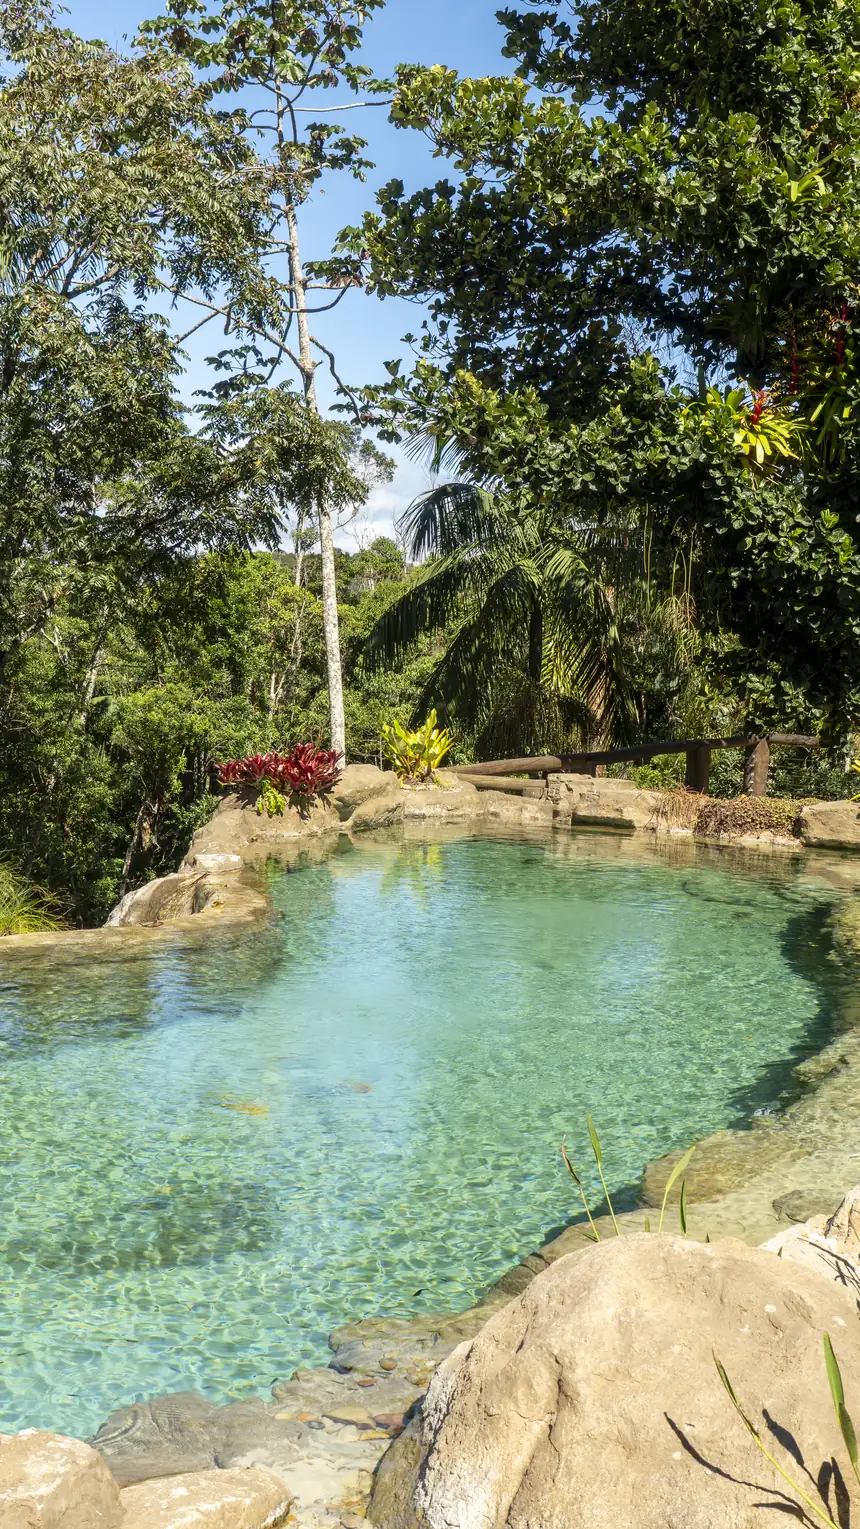
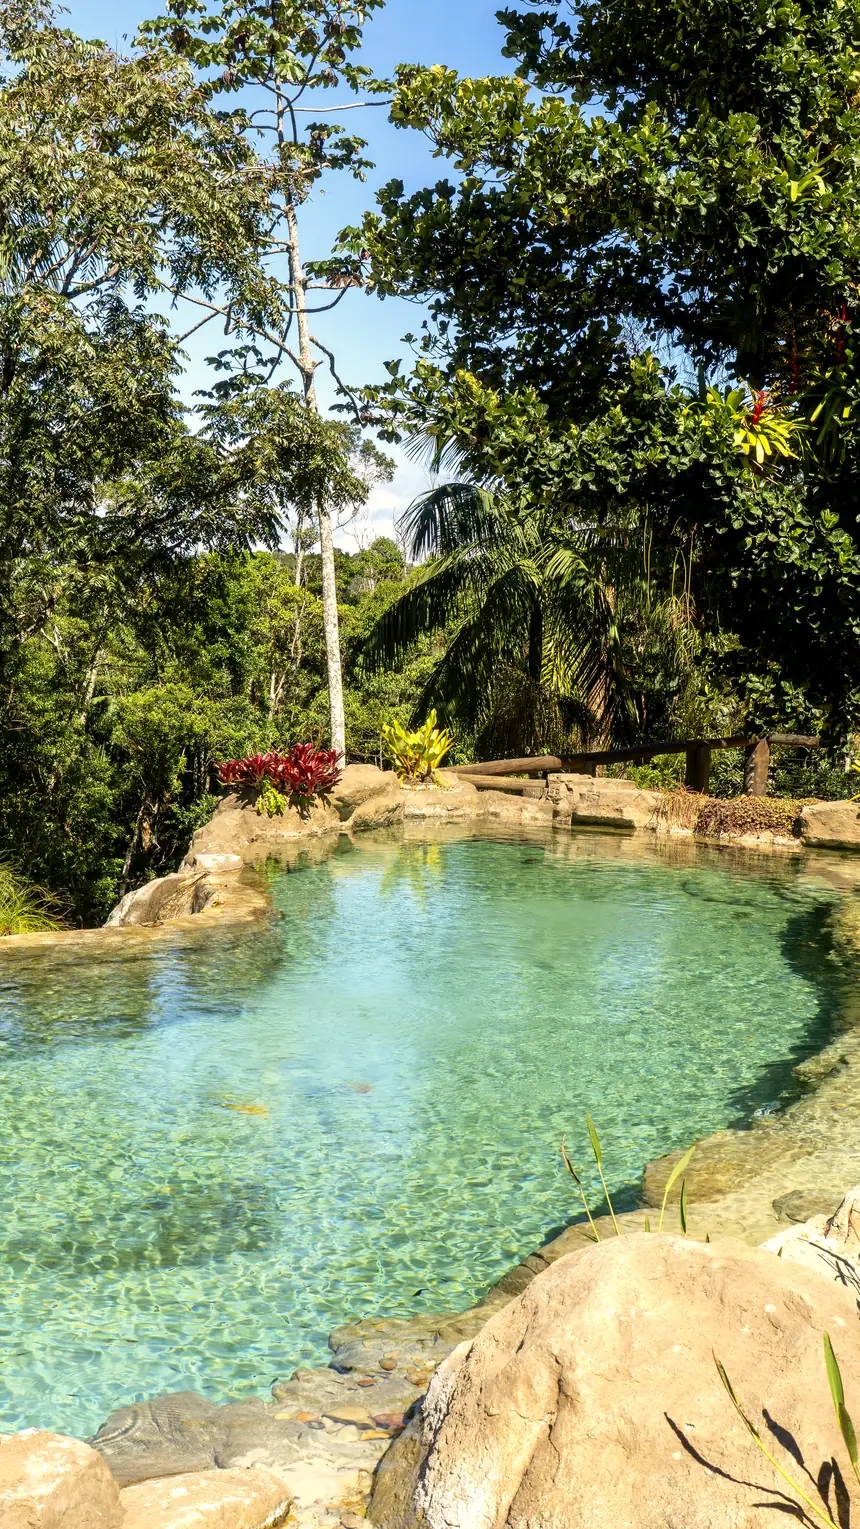
fix(hero): pedra em primeiro plano + tratamento da foto
Correção do dono: 'estamos mostrando mais água e folhas do que a pedra'.

- Recorte novo (16:9 y=88%): a piscina fica EMOLDURADA por pedra Western — a
  borda de pedra à esquerda e o matacão grande embaixo à direita, com o verde
  só como respiro. Antes (y=72%) a água dominava e a pedra era canto de quadro
- Scrim do mobile INVERTIDO: estava ancorado embaixo, escondendo justamente o
  matacão (que vive na base) e revelando as copas de árvore do topo. Agora é
  escuro em cima (onde o texto vive) e LIMPO embaixo (onde a pedra está)
- Herói mobile 700 -> 760px para sobrar base limpa de foto sob o texto
- Tratamento da foto (fotográfico, sem IA): contraste 1.12, saturação 1.10
  (turquesa), calor sutil no canal R / -B (paleta Western é quente), nitidez
  1.30. Desktop caiu para 233KB, mobile 353KB

tsc + vite build limpos.

diff --git a/src/pages/Index.tsx b/src/pages/Index.tsx
@@ -96,7 +96,7 @@ export default function Index() {
           (9:16) da mesma obra; no desktop, uma faixa. Antes era a mesma foto
           deitada espremida num slot em pé — o navegador ampliava 1,3x e jogava
           fora 68% da largura. */}
-      <section className="relative w-full overflow-hidden bg-western-green-deep flex items-end md:items-center min-h-[700px] md:min-h-[720px]">
+      <section className="relative w-full overflow-hidden bg-western-green-deep flex items-start md:items-center min-h-[760px] md:min-h-[720px]">
         <picture>
           <source media="(min-width: 768px)" srcSet={heroHome} width={1600} height={900} />
           <img
@@ -113,15 +113,16 @@ export default function Index() {
             className="absolute inset-0 w-full h-full object-cover object-center md:object-bottom"
           />
         </picture>
-        {/* Scrim mobile ANCORADO EMBAIXO: a foto respira em cima (é o assunto),
-            o texto vive no escuro do rodapé. Antes era um cobertor de 70-90% em
-            toda a altura — por isso a imagem virava só um fundo. */}
+        {/* Scrim mobile ANCORADO NO TOPO: o texto vive no escuro de cima (onde a
+            foto só tem copa de árvore) e a base fica LIMPA — é lá que está o
+            matacão, que é o produto. Antes era um cobertor de 70-90% na altura
+            toda: a foto virava fundo. */}
         <div
           className="absolute inset-0 pointer-events-none md:hidden"
           aria-hidden
           style={{
             background:
-              "linear-gradient(180deg, hsl(var(--western-green-deep) / 0) 0%, hsl(var(--western-green-deep) / 0.30) 34%, hsl(var(--western-green-deep) / 0.86) 68%, hsl(var(--western-green-deep) / 0.97) 100%)",
+              "linear-gradient(180deg, hsl(var(--western-green-deep) / 0.95) 0%, hsl(var(--western-green-deep) / 0.92) 45%, hsl(var(--western-green-deep) / 0.55) 70%, hsl(var(--western-green-deep) / 0.08) 100%)",
           }}
         />
         {/* Scrim desktop: horizontal — texto vive na metade esquerda */}
@@ -141,9 +142,9 @@ export default function Index() {
           className="hidden md:block absolute right-[6%] top-1/2 -translate-y-1/2 w-[38vw] max-w-[480px] opacity-[0.1] pointer-events-none select-none"
         />
 
-        {/* O posicionamento vertical agora é da <section> (items-end no celular,
-            items-center no desktop) — o texto ancora no rodapé escuro. */}
-        <div className="relative container-western w-full pt-28 pb-12 md:py-24">
+        {/* O posicionamento vertical é da <section>: no celular o texto ancora
+            no TOPO (items-start) e a foto respira na base; no desktop, centro. */}
+        <div className="relative container-western w-full pt-14 pb-20 md:py-24">
           <div className="w-full max-w-2xl text-western-cream animate-fade-in-up">
             <div className="w-12 h-px bg-western-gold mb-6" />
             <h1 className="display-xl text-western-cream">
